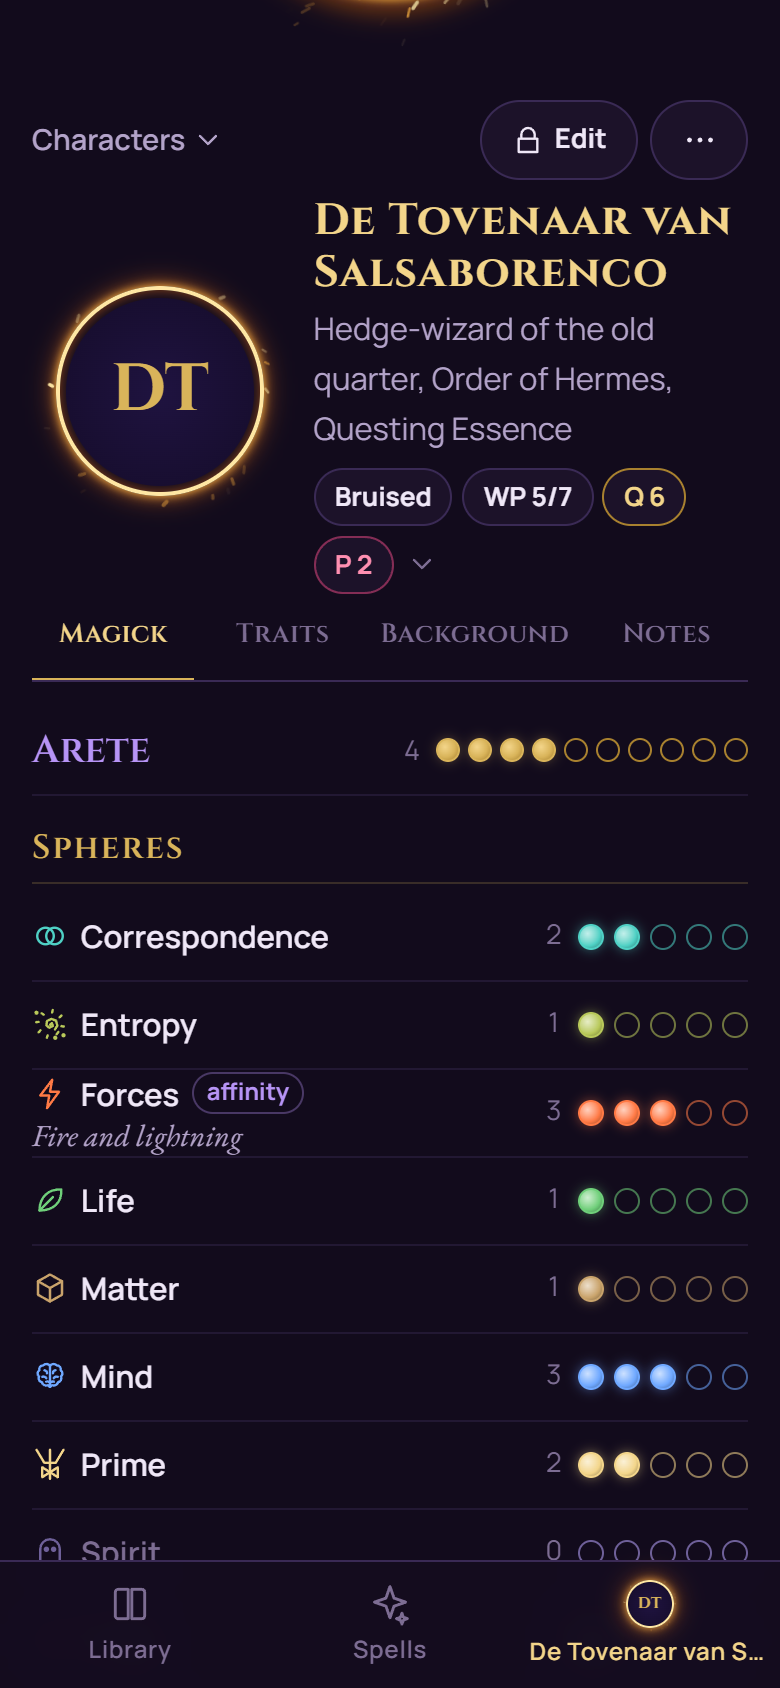
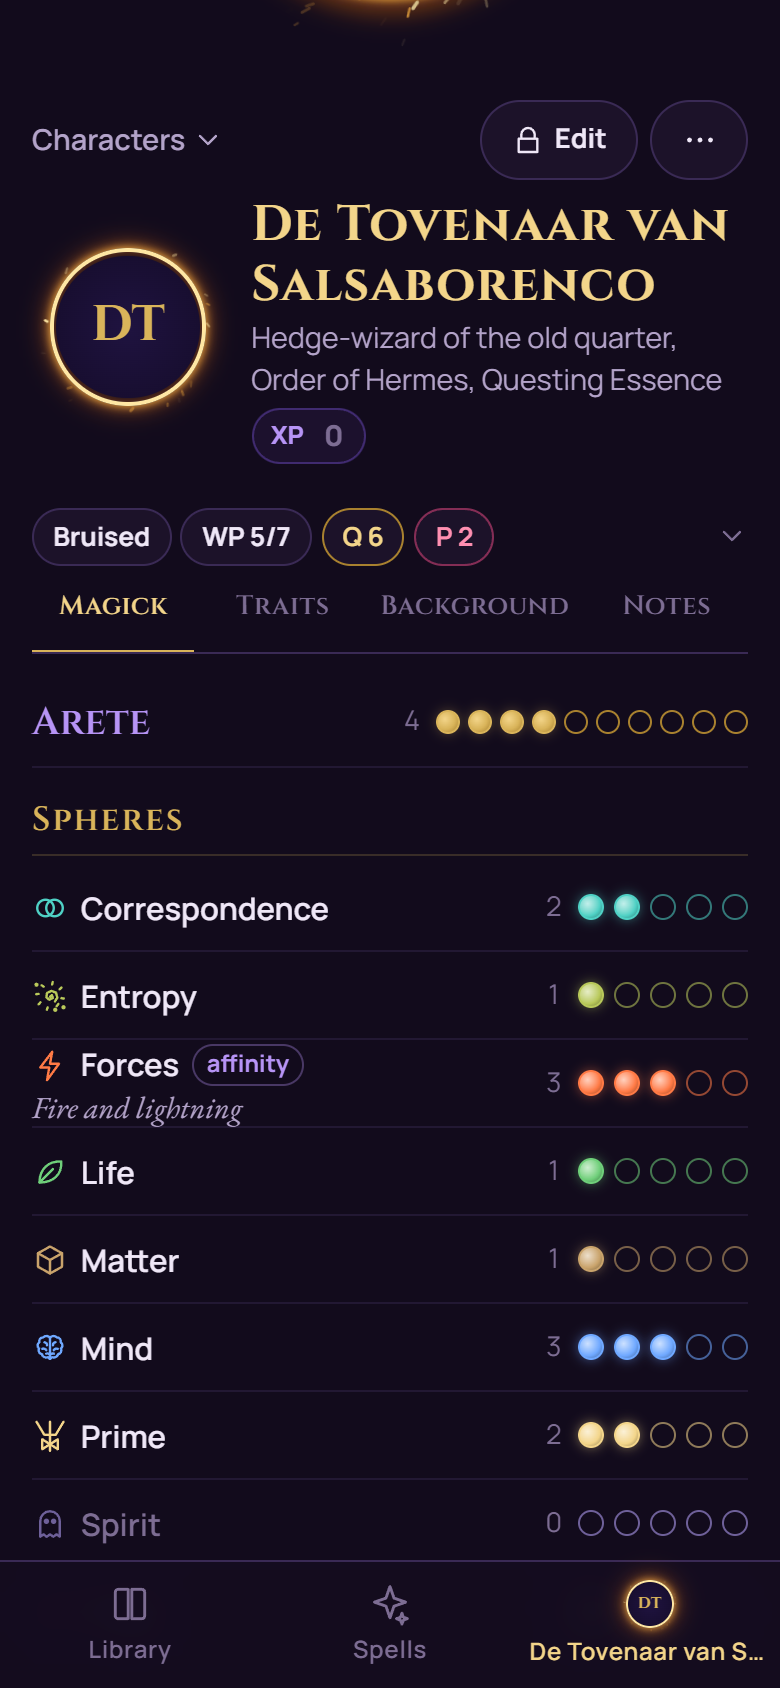
XP beside the name, roomier phone header, menu toggles on its button
- experience moves from the Background tab to the concept line under the
  name: a small XP field, digits only, editable in play mode; the Mr. Gone
  import keeps just the number ("4 exp" becomes "4")
- phones: a 96px portrait with name, concept and XP beside it, and the
  status pills on their own row underneath instead of wrapping
- clicking the character menu's button (or the nav caret) again closes
  it, also on desktop
- verify-sheet checks the XP field and its PDF export

⚡

Changed region(s): [[0.0308, 0.1232, 0.9538, 0.9242], [0.7077, 0.5237, 0.9538, 0.9242]]

diff --git a/src/components/CharacterSheet.tsx b/src/components/CharacterSheet.tsx
@@ -243,12 +243,31 @@ export function CharacterSheet({ id, tab: tabParam }: { id: string; tab?: string
           <PortalPortrait name={c.name} size={128} />
         )}
         <div className="sheet-title">
-          {edit ? (
-            <input className="text-input name-input" value={c.name} aria-label="Name" onChange={(e) => patch({ name: e.target.value })} />
-          ) : (
-            <h2 className="sheet-name">{c.name}</h2>
-          )}
-          <p className="sheet-sub">{[c.concept, c.affiliation, c.essence && `${c.essence} Essence`].filter(Boolean).join(', ')}</p>
+          <div className="sheet-ident">
+            {edit ? (
+              <input className="text-input name-input" value={c.name} aria-label="Name" onChange={(e) => patch({ name: e.target.value })} />
+            ) : (
+              <h2 className="sheet-name">{c.name}</h2>
+            )}
+            <p className="sheet-sub">
+              <span>{[c.concept, c.affiliation, c.essence && `${c.essence} Essence`].filter(Boolean).join(', ')}</span>
+              {/* experience is handed out at the table, so it is editable in play mode too */}
+              <label className="xp">
+                XP
+                <input
+                  type="text"
+                  inputMode="numeric"
+                  pattern="[0-9]*"
+                  value={c.experience}
+                  placeholder="0"
+                  aria-label="Experience"
+                  style={{ width: `${Math.max(1, c.experience.length) + 0.6}ch` }}
+                  onFocus={(e) => e.target.select()}
+                  onChange={(e) => patch({ experience: e.target.value.replace(/\D/g, '').slice(0, 4) })}
+                />
+              </label>
+            </p>
+          </div>
           {pills(vitalsOpen, () => setVitalsOpen(!vitalsOpen))}
         </div>
       </div>
@@ -504,7 +523,6 @@ export function CharacterSheet({ id, tab: tabParam }: { id: string; tab?: string
                 ['demeanor', 'Demeanor'],
                 ['player', 'Player'],
                 ['chronicle', 'Chronicle'],
-                ['experience', 'Experience'],
               ] as const
             ).map(([k, label]) => (
               <Field key={k} label={label} value={c[k]} edit={edit} onChange={(v) => patch({ [k]: v })} />

diff --git a/src/styles.css b/src/styles.css
@@ -966,6 +966,50 @@ a { color: var(--gold-hot); text-decoration-color: #d9b45a55; }
 .sheet-hero .name-input { font-size: 1.15rem; }
 .sheet-title .vitals-bar { width: auto; min-height: 0; padding: 0.45rem 0 0; border-bottom: 0; gap: 0.3rem; }
 .sheet-title .vitals-toggle { margin-left: 0.1rem; }
+/* concept line plus the experience field, which is filled in right there */
+.sheet-hero .sheet-sub { display: flex; flex-wrap: wrap; align-items: center; gap: 0.2rem 0.6rem; }
+.sheet-sub > span:empty { display: none; }
+.xp {
+  display: inline-flex;
+  align-items: center;
+  gap: 0.15rem;
+  padding: 0 0.15rem 0 0.55rem;
+  font-size: 0.78rem;
+  font-weight: 800;
+  color: var(--violet-soft);
+  border: 1px solid #8b5cf655;
+  border-radius: 999px;
+  background: #8b5cf614;
+  cursor: text;
+}
+.xp input {
+  all: unset;
+  box-sizing: content-box;
+  min-width: 1.6ch;
+  padding: 0.15rem 0.3rem;
+  font: inherit;
+  font-size: 0.9rem;
+  font-variant-numeric: tabular-nums;
+  text-align: center;
+  color: var(--ink);
+  border-radius: 999px;
+}
+.xp input::placeholder { color: var(--ink-faint); }
+.xp:focus-within { border-color: var(--gold); }
+.xp:focus-within { background: #8b5cf626; }
+
+/* phones: a smaller portrait with name, concept and XP beside it, the status pills on
+   their own full-width row underneath (beside the portrait they wrapped onto two lines) */
+@media (max-width: 599px) {
+  .sheet-hero { display: grid; grid-template-columns: auto minmax(0, 1fr); column-gap: 0.85rem; }
+  .sheet-hero .pp { --pp: 96px !important; }
+  .sheet-title { display: contents; }
+  .sheet-ident { grid-column: 2; }
+  .sheet-hero .sheet-name { font-size: clamp(1.3rem, 6.4vw, 1.7rem); }
+  .sheet-hero .sheet-sub { font-size: 0.9rem; line-height: 1.45; }
+  .sheet-title .vitals-bar { grid-column: 1 / -1; flex-wrap: nowrap; padding-top: 0.55rem; }
+  .sheet-title .vitals-toggle { margin-left: auto; }
+}
 .sheet-hero + .vitals-panel { border-top: 1px solid var(--line-solid); margin-top: 0.6rem; }
 .portrait-hint { font-size: 0.75rem; bottom: 6px; }
 

diff --git a/src/components/CharacterMenu.tsx b/src/components/CharacterMenu.tsx
@@ -14,7 +14,7 @@ import { SphereGlyph } from './SphereGlyph';
 
 const OPEN = 'agathon:character-menu';
 
-/** Open the character switcher next to `trigger` (focus goes back there on close). */
+/** Open (or, from the same trigger, close) the character switcher next to `trigger`. */
 export function openCharacterMenu(trigger: HTMLElement) {
   window.dispatchEvent(new CustomEvent(OPEN, { detail: trigger }));
 }
@@ -81,7 +81,11 @@ export function CharacterMenu({ characters, active }: { characters?: Character[]
   const isOpen = !!trigger;
 
   useEffect(() => {
-    const onOpen = (e: Event) => setTrigger((e as CustomEvent<HTMLElement>).detail);
+    // the same trigger again closes it, like any drop-down
+    const onOpen = (e: Event) => {
+      const t = (e as CustomEvent<HTMLElement>).detail;
+      setTrigger((open) => (open === t ? null : t));
+    };
     // going somewhere else (a pick, an import, the back button) closes it
     const onRoute = () => setTrigger(null);
     window.addEventListener(OPEN, onOpen);

diff --git a/src/sheets/mrgone.ts b/src/sheets/mrgone.ts
@@ -66,6 +66,8 @@ export async function readMrGone(bytes: ArrayBuffer): Promise<SheetFields> {
   const c = newCharacter('', '');
   const out: SheetFields = sheetPart(c);
   for (const [k, field] of Object.entries(map.text)) (out as unknown as Record<string, string>)[k] = text(field);
+  // the app keeps experience as a plain number ("4 exp" on a sheet becomes "4")
+  out.experience = out.experience.match(/\d+/)?.[0] ?? '';
 
   out.traits = {};
   out.specialties = {};

diff --git a/CLAUDE.md b/CLAUDE.md
@@ -45,12 +45,12 @@ No unit tests or linters; verify scripts (playwright-core driving system Edge vi
 
 - **Storage:** everything the player owns lives in IndexedDB via Dexie (`src/db/db.ts`): `characters`, `spells`, `books` (page text of the player's own rulebook PDFs, never shipped or shared). `requestPersistence()` asks for persistent storage on the first real write. Use `useLiveQuery` (dexie-react-hooks) in components.
 - **Routing:** hash routes in `useHashRoute.ts`: `#/library`, `#/spells`, `#/characters`, `#/characters/<id>/<tab>` (tabs magick, traits, background, notes). `activeCharacter.ts` remembers the character in play (localStorage, opening a sheet sets it); `useActiveCharacter()` gives all characters plus the active one (falling back to the most recent) and re-renders on a switch. `#/characters` without an id is not a list: it redirects to the character in play, or is the welcome page (add/import) when there are none.
-- **Characters:** `character.ts` is the full M20 model (all Attributes/Abilities in `traits`, Spheres, the Q/P wheel, health marks, backgrounds, merits/flaws, rotes, focus, wonders, description, gear, weapons, notes). `clampWheel` enforces M20 p. 331: Paradox cancels Quintessence where they meet, Quintessence stops at the Paradox. `CharacterSheet.tsx` keeps a local copy and debounces writes; `App.tsx` keys it by id, so switching characters starts fresh (play mode, no dialog left open; a delete confirmation once stayed open for the next character). Its header shows a 128px portrait (tap = enlarged view; in edit mode tap = replace) with name and the status pills beside it; when that header scrolls out of view (IntersectionObserver) a fixed mini bar with a small portrait and the same pills takes over, so health and Willpower stay in reach. The mini bar has its own drop-down (`miniOpen`) instead of reusing the in-flow trackers panel: moving that panel between the two places changed the page height, which flipped the observer back and forth and blocked scrolling. `html` has `scroll-padding-top` so nothing scrolls in under that bar; play mode only lets the trackers change (health, Willpower spent, Q/P), the lock button switches to edit mode.
+- **Characters:** `character.ts` is the full M20 model (all Attributes/Abilities in `traits`, Spheres, the Q/P wheel, health marks, backgrounds, merits/flaws, rotes, focus, wonders, description, gear, weapons, notes). `clampWheel` enforces M20 p. 331: Paradox cancels Quintessence where they meet, Quintessence stops at the Paradox. `CharacterSheet.tsx` keeps a local copy and debounces writes; `App.tsx` keys it by id, so switching characters starts fresh (play mode, no dialog left open; a delete confirmation once stayed open for the next character). Its header shows a 128px portrait (tap = enlarged view; in edit mode tap = replace) with name, concept line, the XP field and the status pills beside it (below 600px: a 96px portrait, and the pills drop to their own full-width row via `display: contents` on `.sheet-title`, because beside the portrait they wrapped). Experience is a plain number: the XP field takes digits only and stays editable in play mode, and the Mr. Gone import keeps only the number ("4 exp" becomes "4"); when that header scrolls out of view (IntersectionObserver) a fixed mini bar with a small portrait and the same pills takes over, so health and Willpower stay in reach. The mini bar has its own drop-down (`miniOpen`) instead of reusing the in-flow trackers panel: moving that panel between the two places changed the page height, which flipped the observer back and forth and blocked scrolling. `html` has `scroll-padding-top` so nothing scrolls in under that bar; play mode only lets the trackers change (health, Willpower spent, Q/P), the lock button switches to edit mode.
 - **Sheet import/export:** `src/sheets/mrgone.ts` reads and writes Mr. Gone's fillable M20 2-page sheet with pdf-lib (lazy-loaded). Its dot checkboxes have meaningless names, so `mrgone-m20-2page.json` (generated by `scripts/build-mrgone-map.mjs` from field positions next to the printed labels; all 625 fields mapped, none twice) says which field is which trait. A lone `x` after a Sphere marks the affinity Sphere. The imported PDF is kept per character in the `sheetFiles` table so "Export PDF sheet" fills that same file; characters made in the app pick a blank sheet once. Re-importing shows `diffSheet` changes first and keeps id, notes and spells (`sheetActions.ts`). Matching on import is by character name.
 - **Library UI:** `src/library/data.ts` lazy-loads `library/effects.json` as its own chunk (precached). `src/library/search.ts` parses the query: text, quoted phrases and `-exclusions`, Sphere operators (`mind:3` = up to 3, `=3`, `3+`, `2-4`; any 3+ letter prefix; `data:`/`primal:`/`dimsci:`), `uses:` (these Spheres plus others), `tag:`, `book:`, `kind:`, `is:`, `name:`. A Sphere query matches a combo with exactly those Spheres unless `uses:` or "Allow other Spheres" is on. With "What <character> can cast" on, hits are split by `deficit` (dots missing over the closest combo): castable now, and a separate "One dot away" section. The Sphere bar, tag rows and kind/book chips just rewrite the query text (`toggleOp`), so the query stays the single source of truth. Cards (`EffectCard`) show only the first (best matching) combo plus "+N more", so they all have the same shape; the edge strip takes the colour of that combo's highest Sphere, and hovering lets portal sparks rise off the card (no lift, no sweep). Layout: three grid areas (search, side, results); on phones they stack and the kind/book/tag filters hide behind a Filters button, from 900px the side becomes a sticky another app-style sidebar (Spheres as a 3x3 grid with names, tags as rows with counts) next to a multi-column card grid. `EffectDetail.tsx` shows the combos (pick one), the base difficulty from M20 p. 501 (highest Sphere +3 / +4 / +5), the book's coincidental note and a mitigation checklist; Sphere tricks in it only light up when the active character has the dots. Routes: `#/library/<effect id>`; closing goes back only when the detail was opened from the list, so deep links never leave the app.
 - **Portraits:** `portrait.ts` turns any image into a 640px square data URL (WebP, JPEG fallback for old Safari), cropped a little above centre. On PDF import the largest JPEG that is not a full-page background or a thin strip is taken as the portrait (`portraitFromPdf`, pdf-lib); it only fills an empty portrait, never replaces one set in the app, because `portrait` is app-owned and left out of `SheetFields`/`diffSheet`. Shares carry the full portrait in files and a 128px copy (`shrinkPortrait`, a few KB) in links; QR codes get a separate link without it, because they hold about 2 KB. Incoming ones pass `safePortrait`. `PortalPortrait.tsx` draws it inside a small sparking portal: a CSS ring and glow (cheap for lists) plus the shared `makeSparks`/`SparkLines` from `Portal.tsx`.
 - **Sharing:** `share.ts` is the versioned wire format (`app: 'agathon', kind: 'characters', version: 1`), as a `.agathon.json` file or a `#import=<mode>.<base64url(deflate-raw(json))>` link/QR (empty values are dropped to keep links short). Everything from outside goes through `sanitizeCharacter` (known fields only, values clamped) before it touches the database. Shares never carry ids, timestamps or the stored PDF; notes only when ticked. `App.tsx` turns `#import=` links into the `SharedImport` preview; imports only add, a clashing name gets " (2)". The Import button takes both PDFs and character files.
-- **Character switcher:** `CharacterMenu.tsx`, mounted once in `App.tsx` and opened with `openCharacterMenu(trigger)` from the nav caret (from 900px) or the "Characters" button on the sheet. A bottom sheet below 600px, a drop-down anchored under its trigger above that. It stays mounted while hidden, so an import or back-up it started keeps its dialogs; any hash change closes it. `CharacterTools` (add by name, Import, Back up all) is shared with the welcome page.
+- **Character switcher:** `CharacterMenu.tsx`, mounted once in `App.tsx` and opened with `openCharacterMenu(trigger)` from the nav caret (from 900px) or the "Characters" button on the sheet; the same trigger again closes it. A bottom sheet below 600px, a drop-down anchored under its trigger above that. It stays mounted while hidden, so an import or back-up it started keeps its dialogs; any hash change closes it. `CharacterTools` (add by name, Import, Back up all) is shared with the welcome page.
 - **Modals** render through a portal on `<body>` (`Modal.tsx`), so a dialog opened from inside the `<details>` menu survives the menu closing.
 - **PWA:** `registerType: 'prompt'`; `UpdateToast.tsx` (mounted in main.tsx outside App) re-checks hourly and on focus and shows a Reload toast. Its reload falls back to `location.reload()` when the page was never controlled by the service worker (first visit), because `updateServiceWorker(true)` only reloads on a controller change. `public/_headers` keeps index.html/sw.js/workbox/manifest uncached on Cloudflare.
 - **Rulebooks and samples** live in `refs/` (gitignored, never commit them or text extracted from them). Only our own summaries are committed.

diff --git a/README.md b/README.md
@@ -51,7 +51,8 @@ your table. Rolls stay on the table; Agathon is the helper and sounding board.
   history, description, gear and weapons.
 - **Play mode and edit mode**: while playing only health, Willpower and the
   **Quintessence/Paradox wheel** change (Paradox cancels Quintessence, never the
-  other way round, as in M20); a lock switches to editing.
+  other way round, as in M20), plus the experience beside the name; a lock switches
+  to editing.
 - **PDF import and export**: drop in Mr. Gone's fillable M20 2-page sheet and every
   field comes across, including the portrait pasted into it. Re-importing shows the
   changes first and keeps your notes. "Export PDF sheet" fills your own PDF back in.
